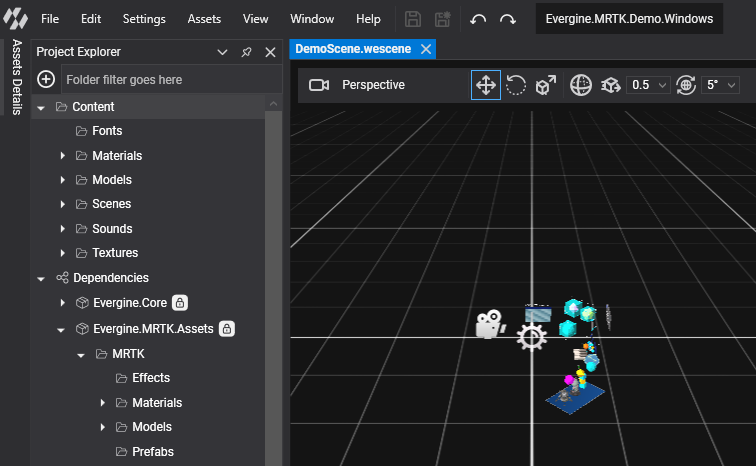
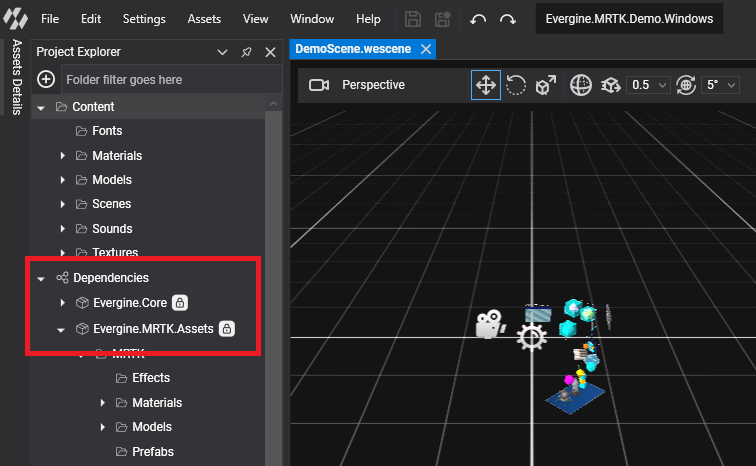
Review packages section

Changed region(s): [[0.0304, 0.5408, 0.3651, 0.7811]]

diff --git a/manual/evergine_studio/packages.md b/manual/evergine_studio/packages.md
@@ -4,20 +4,55 @@ Packages are Evergine extensions that add specific functionalities and assets to
 
 When a package is added, its assets (textures, sounds, meshes, etc.), source code (components, behaviors, services, etc.) and its nuget dependencies are automatically added for you, so you can start using them.
 
+## Packages in Evergine Studio
+
+To check wich packages are installed in your application, you just need to take a look to the Project Explorer tab in Evergine Studio, and inspect the Dependencies section:
+
 ![packages on evergine studio](Images/mrtk_package.png)
 
 ## Supported packages
 
-- [Mixed Reality Toolkit](https://github.com/EvergineTeam/MixedRealityToolkit)
-  - Id: Evergine.MRTK.Assets
-  - Latest Version: 2021.11.4.5-nightly
-  - NuGet Dependencies:
-    - Evergine.Framework
-    - Evergine.MRTK
-- Azure Remote Rendering - Comming soon
-- CAD Formats - Comming soon
-- Noesis - Comming soon
-- Bing Maps - Comming soon
+Evergine comes gives the possibility to extend your applications using different packages
+
+### Evergine Core
+
+**Evergine.Core** is the most important package in Evergine, and it is registered into your application by default. It gives your application all default [Effects](../graphics/effects/builtin_effects.md), [Materials](../graphics/materials/index.md), [Textures](../graphics/textures/index.md), [PostProcessingGraph](../graphics/postprocessing_graph/index.md) and core functionality to start developing your project.
+
+![Evergine.Core package](Images/evergine_core.png)
+
+#### Evergine.Core Package information
+* Id: **Evergine.Core**
+* Latest Version: *This package is installed with the same version as used in your Evergine application*
+* NuGet Dependencies:
+  * **Evergine.Framework**
+
+### Mixed Reality Toolkit
+
+[**Evergine.MRTK**](https://github.com/EvergineTeam/MixedRealityToolkit) is a package that provides a set of components and features used to accelerate cross-platform XR application development in Evergine.
+Evergine.MRTK provides a set of basic building blocks for Evergine development on XR platforms such as:
+* Microsoft HoloLens 2
+* Windows Mixed Reality hreadsets
+* OpenVR headsets (Oculus, HTC Vive, etc..)
+
+![Evergine.MRTK](Images/MRTK_Examples.png)
+
+#### Evergine.MRTK Package information
+* Id: **Evergine.MRTK.Assets**
+* Latest Version: **2021.11.4.5-nightly**
+* NuGet Dependencies:
+  * **Evergine.Framework**
+  * **Evergine.MRTK**
+
+### Upcoming packages
+
+Evergine is on continuous development, and more upcoming packages are comming:
+
+| Package | Description | 
+| --- | --- |
+| **Azure Remote Rendering** | This package provides integration of Evergine with [Azure Remote Rendering](https://azure.microsoft.com/es-es/services/remote-rendering/), allowing to render on cloud complex industrial scenes and reproduce on portable devices or HoloLens. |
+| **Noesis GUI** | Using [NoesisGUI](https://www.noesisengine.com/) with Evergine allows you to create appealing User Interfaces using powerful XAML tools like Microsoft Expression Blend. |
+| **CAD Formats** | Take your industrial CAD/3D model and bring it into your Evergine application. |
+| **Bing Maps** | Provides [Bing Maps](https://www.bingmapsportal.com/) integration with Evergine, that allows you to utilize Bing Maps 3D mapping data in your application. |
 
 ## Add a new package
 
@@ -45,6 +80,13 @@ For example:
 
 ## Customize assets
 
-To modify an asset included in the package, just open it in the project explorer, modify it, and save. Automatically a new copy of the asset will be created on your local folder project, overwriting the one provided by the package.
+By default, all assets included in a package cannot be modified. This is indicated by this lock icon: ![lock icon](Images/locked_icon.png).
+
+However, you can modify an asset included in the package. When you modify a package asset, and try to save it, the following message apperas, indicating if you want to create a new copy of this asset in your project:
+
+![confirm](Images/package_locked_save.png)
+
+
+Automatically a new copy of the asset will be created on your local folder project, overwriting the one provided by the package. By doing this allows you to modify or adapt Evergine core assets to your application requirements
 
 ![Asset customization](Images/asset_edit.png)
